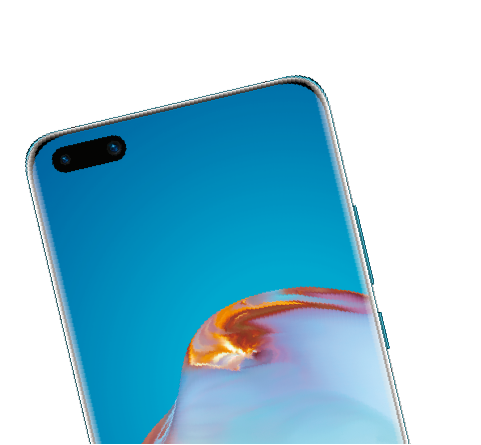
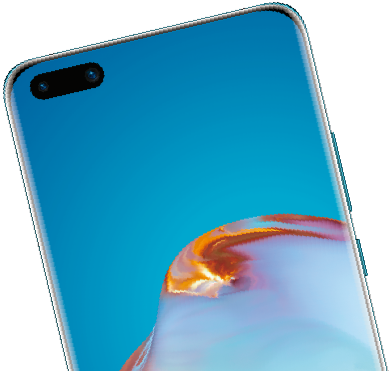
estilo de home

diff --git a/resources/sass/app.scss b/resources/sass/app.scss
@@ -60,7 +60,7 @@ h3, h4, h5, h6,
 
 .cc-huawei {
 	overflow: hidden;
-	min-height: 380px;
+	min-height: 200px;
 	img {
 		max-height: 100%;
 	}

diff --git a/resources/views/home/index.blade.php b/resources/views/home/index.blade.php
@@ -6,13 +6,13 @@
 @endsection
 @section('content')
 <div class="cc-huawei pt-5 container">
-	<div class="row pt-5 pb-3 pl-lg-5">
-		<div class="col-12 col-md-6 col-xl-4 py-2 pl-lg-5">
+	<div class="row pt-5 pl-lg-5">
+		<div class="col-12 col-md-6 col-xl-4 py-0 py-xl-0 pl-lg-5">
 			<div class="cc pl-lg-5 h-100">
 			<div class="row pl-lg-5 h-100">
 				<div class="col-12 page-title">
 					<p class="mt-4 mb-0">con</p>
-					<h1 class="title">AppGallery y <br> Claro Video</h1>
+					<h1 class="title">AppGallery y <br> Claro video</h1>
 					<p class="mt-3 text-uppercase">Estás a un paso <br class="d-none d-md-block">de ganar grandes <br class="d-none d-md-block">premios</p>
 					<div class="c-arrow text-center pr-5">
 						<img class="img-fluid i-arrow f-1" src="/img/home/flecha1.png" style="margin-top: -20px" width="55">
@@ -28,17 +28,17 @@
 			</div>
 			</div>
 		</div>
-		<div class="col-12 col-md-6 col-xl-4 py-2 pl-lg-5 d-flex flex-column">
+		<div class="col-12 col-md-6 col-xl-4 py-0 py-xl-0 pl-lg-5 d-flex flex-column">
 			<p class="mt-3 text-uppercase position-relative" style="left: 50%">Escribe en tu celular <br><strong><sup>*</sup>#06#</strong> <br>y con el resultado <br> regístrate</p>
 			<div class="c-arrow" style="margin-top: -50px;margin-left: 20px">
 				<img class="img-fluid i-arrow f-3" src="/img/home/flecha3.png" width="120">
 			</div>
 			<p class="mt-3 text-uppercase">Solo debes obtener <br class="d-none d-md-block"><strong>tu IMEI</strong></p>
-			<div class="c-mobile" style="margin-top: -80px;margin-left: -40px">
-				<img class="mobile" src="/img/home/mobile.png" width="430">
+			<div class="c-mobile" style="">
+				<img class="mobile" src="/img/home/mobile.png" width="350">
 			</div>
 		</div>
-		<div class="col-12 col-md-6 col-xl-4 py-2 pl-lg-5">
+		<div class="col-12 col-md-6 col-xl-4 py-0 py-xl-0 pl-lg-5">
 			<div class="c-arrow position-relative" style="left: -40%;top: 18%">
 				<img class="img-fluid i-arrow f-4" src="/img/home/flecha4.png" width="320">
 			</div>

diff --git a/resources/views/videos/list.blade.php b/resources/views/videos/list.blade.php
@@ -1,11 +1,11 @@
 @extends('layouts.app', ['title' => 'Home'])
 @section('content')
-<div class="cc-huawei pt-5 container-fluid">
-	<div class="row pt-5 pb-3 pl-lg-5 align-items-center">
+<div class="cc-huawei container-fluid">
+	<div class="row pb-3 pl-lg-5 align-items-center">
 		<div class="col-12 col-md-5 col-lg-4 py-2 pl-lg-5">
 			<div class="cc pl-lg-5 h-100">
 			<div class="row pl-lg-5 h-100">
-				<div class="col-12 pt-3 pt-lg-5 page-title mt-md-5">
+				<div class="col-12 pt-lg-3 page-title">
 					<h1 class="title pt-md-4">SUERTE</h1>
 					<p class="mt-5 text-uppercase" style="font-size: 20px;width: 60%;">
 						Gira el LuckyDraw de <br>AppGallery y Gana <br>uno de estos grandes <br>Premios

diff --git a/resources/views/layouts/footer.blade.php b/resources/views/layouts/footer.blade.php
@@ -1,4 +1,4 @@
-<footer class="footer mt-auto">
+{{-- <footer class="footer mt-auto">
 	<div class="container-fluid redes px-md-5 py-2 d-flex align-items-center justify-content-between">
 	  	<a class="d-inline-block d-md-none" href="https://consumer.huawei.com/pe/mobileservices/appgallery/">
 	        <img class="logo-app_gallery" src="{{ asset('img/exploralo-app-gallery.png') }}" width="100">
@@ -11,4 +11,4 @@
   			<li class="d-inline-block align-middle"><a class="px-1 text-white" target="_blank" href="http://www.instagram.com/huaweimobilepe/"><i class="fab fa-instagram"></i></a></li>
   		</ul>
   	</div>
-</footer>
+</footer> --}}
